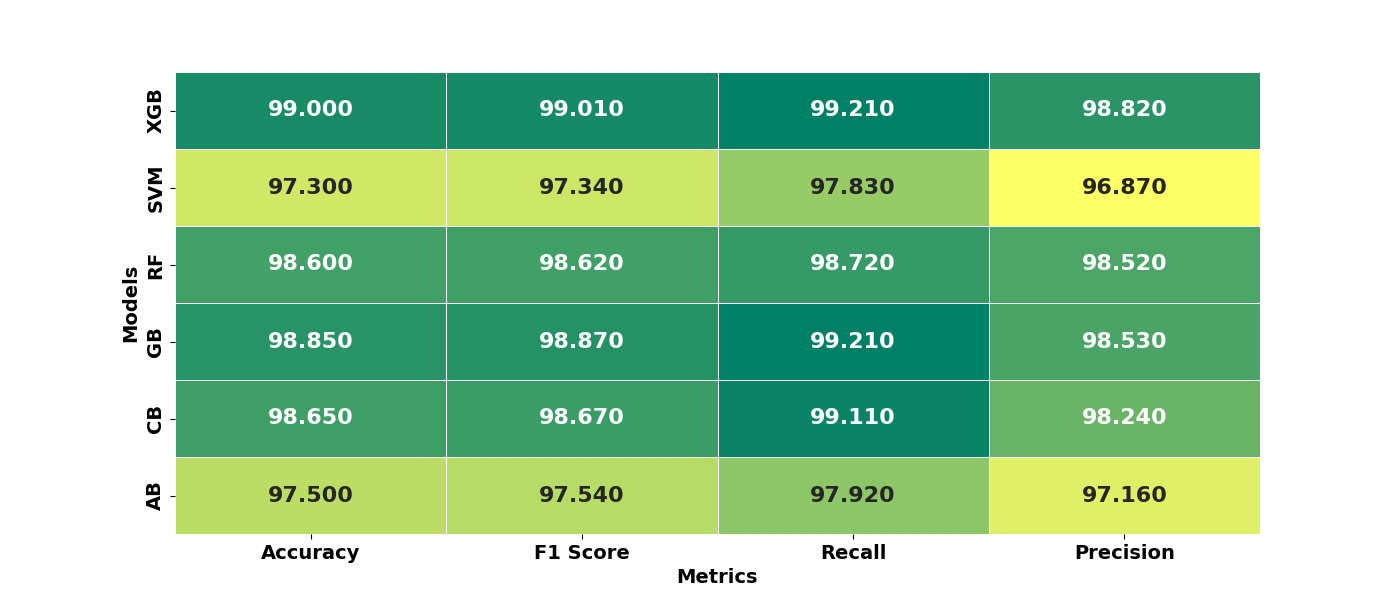
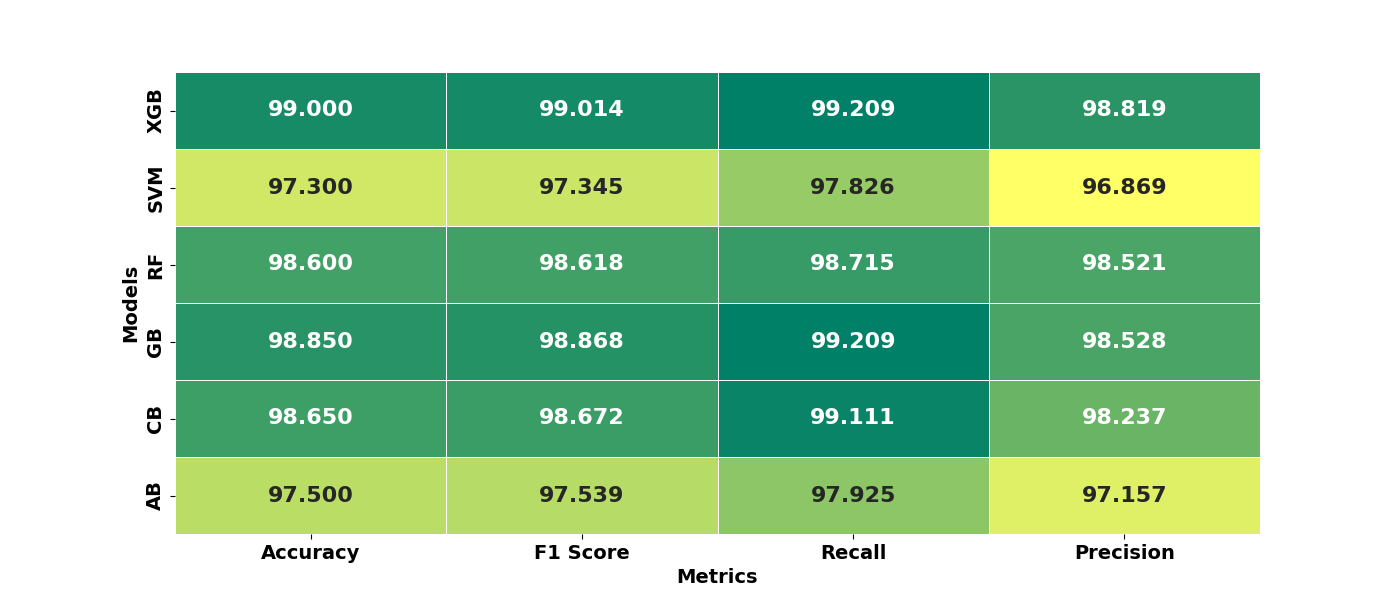
d

diff --git a/heatmap/test.py b/heatmap/test.py
@@ -15,7 +15,7 @@ data['ML Model'] = data['ML Model'].str.strip()
 
 # Remove percentage signs, if any, and multiply the metrics by 100, round to 3 decimal points
 for col in ['Accuracy', 'F1 Score', 'Recall', 'Precision']:
-    data[col] = (data[col] * 100).round(2)
+    data[col] = (data[col] * 100).round(3)
 
 # Set the Model as the index for easier plotting
 data.set_index('ML Model', inplace=True)
